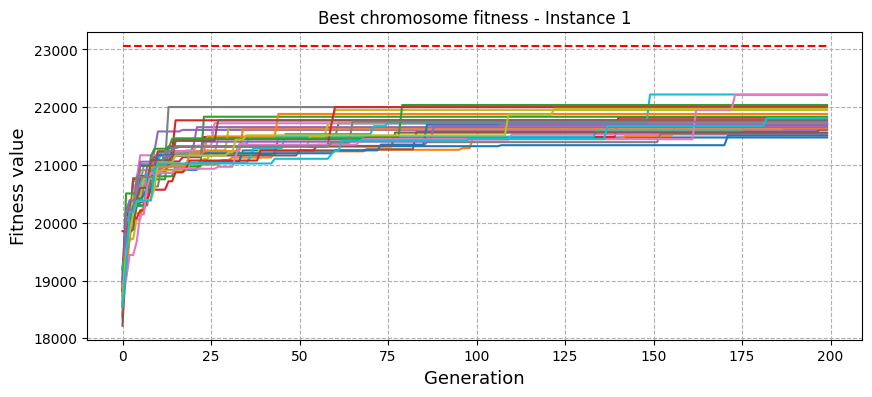
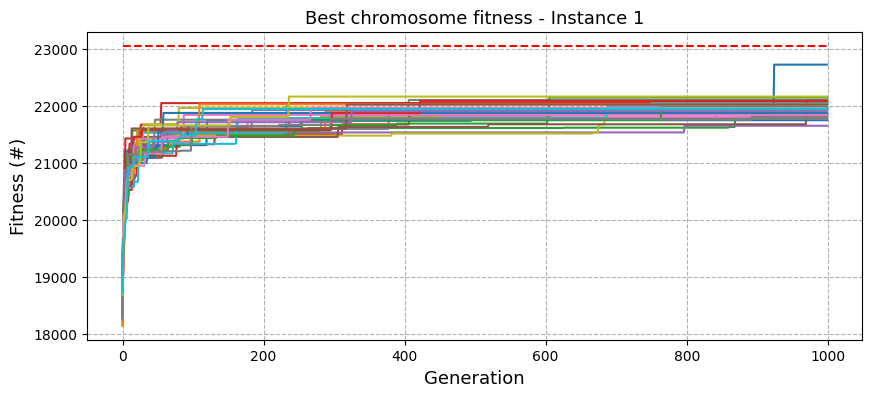
adding new plots

diff --git a/average_fitness_plot.py b/average_fitness_plot.py
@@ -22,7 +22,7 @@ print(average_instance)
 
 # plt.plot(average_instance)
 
-optimal = [24381, 59312, 120130, 23064, 59187, 117726]
+# optimal = [24381, 59312, 120130, 23064, 59187, 117726]
 
 X = ['File 1', 'File 2', 'File 3', 'File 4', 'File 5', "File 6"]
 Y_optimal = [24381, 59312, 120130, 23064, 59187, 117726]

diff --git a/result_plots.py b/result_plots.py
@@ -13,7 +13,7 @@ for i in range(6, 7):
         plt.plot(history)
 
 # optimal = [24381, 59312, 120130, 23064, 59187, 117726]
-optimal = [117726 for i in range(0, 200)]
+optimal = [117726 for i in range(0, 1000)]
 
 plt.plot(optimal, color='r', linestyle='--')
 plt.ylabel('Fitness (#)', fontsize=13)
